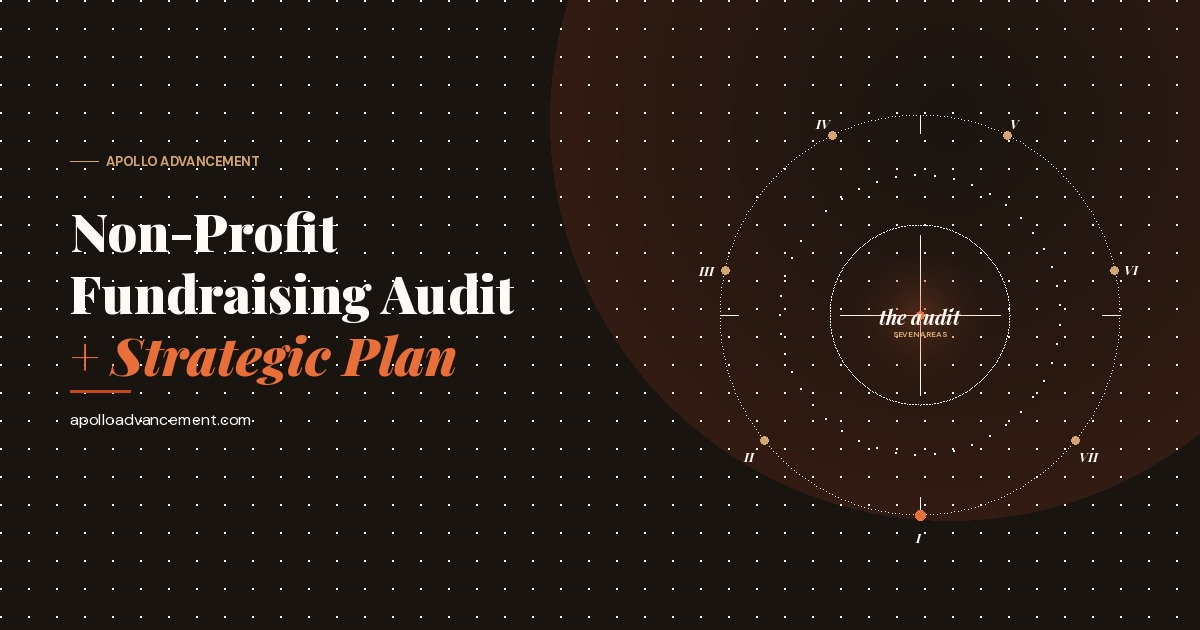
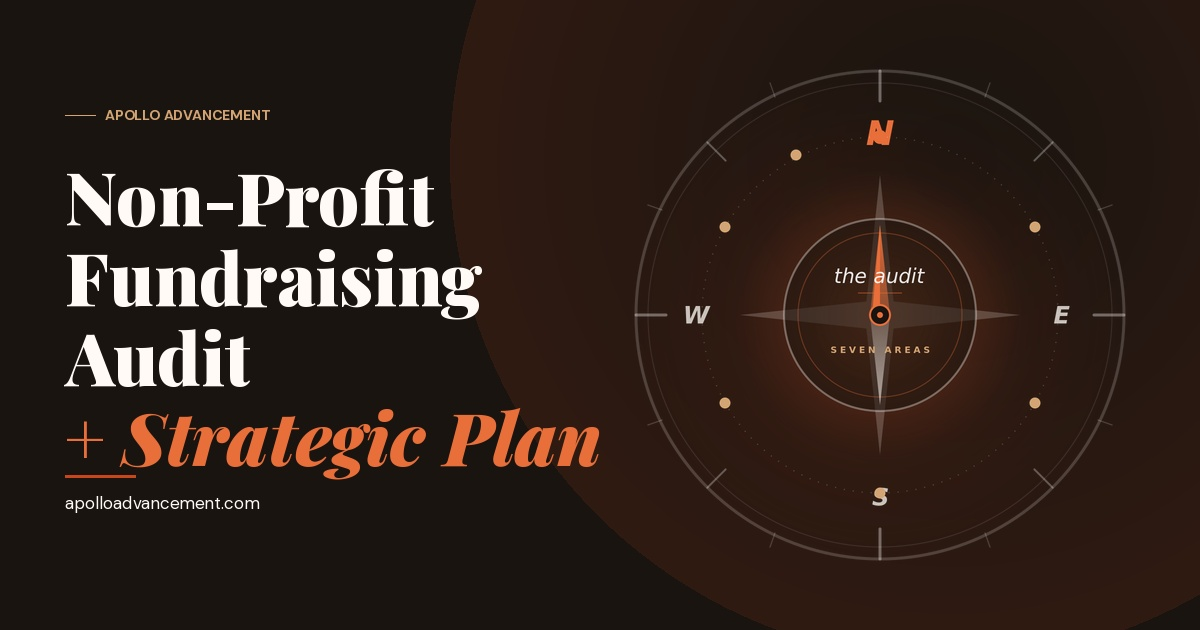
New OG image with high-res compass, larger hero headline, update hero text

diff --git a/Website/services/fundraising-audit.html b/Website/services/fundraising-audit.html
@@ -82,7 +82,7 @@ nav.site.scrolled .nav-cta{color:#fff !important}
 
 .hero-eyebrow{display:inline-flex;align-items:center;gap:.8rem;font-size:.72rem;font-weight:700;letter-spacing:.22em;text-transform:uppercase;color:var(--accent-sand);margin-bottom:2rem}
 .hero-eyebrow::before{content:'';width:2rem;height:1px;background:var(--accent-sand)}
-.hero-headline{font-family:var(--f-display);font-weight:700;font-size:clamp(2.6rem,5.5vw,4.8rem);line-height:1;letter-spacing:-.035em;color:#fff;margin-bottom:0;width:100%;text-wrap:balance;white-space:normal}
+.hero-headline{font-family:var(--f-display);font-weight:700;font-size:clamp(2.6rem,7.2vw,6.2rem);line-height:1;letter-spacing:-.035em;color:#fff;margin-bottom:0;width:100%;text-wrap:balance;white-space:normal}
 .hero-headline .it{display:block;font-weight:500;color:var(--accent-glow);font-style:italic}
 .swoosh-wrap{position:relative;display:inline-block;white-space:nowrap}
 .swoosh{position:absolute;left:-4%;right:-4%;bottom:-.35em;width:108%;height:.55em;overflow:visible;pointer-events:none}
